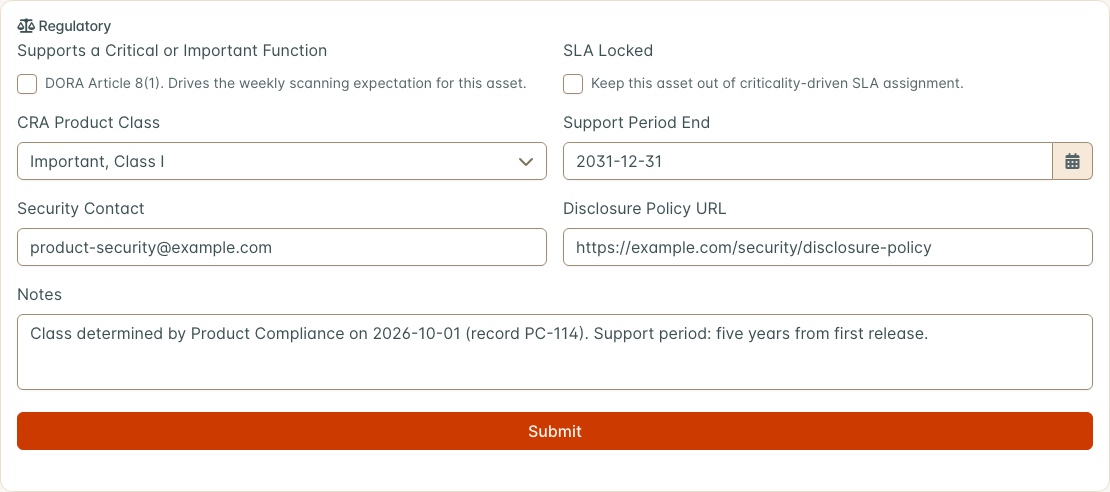
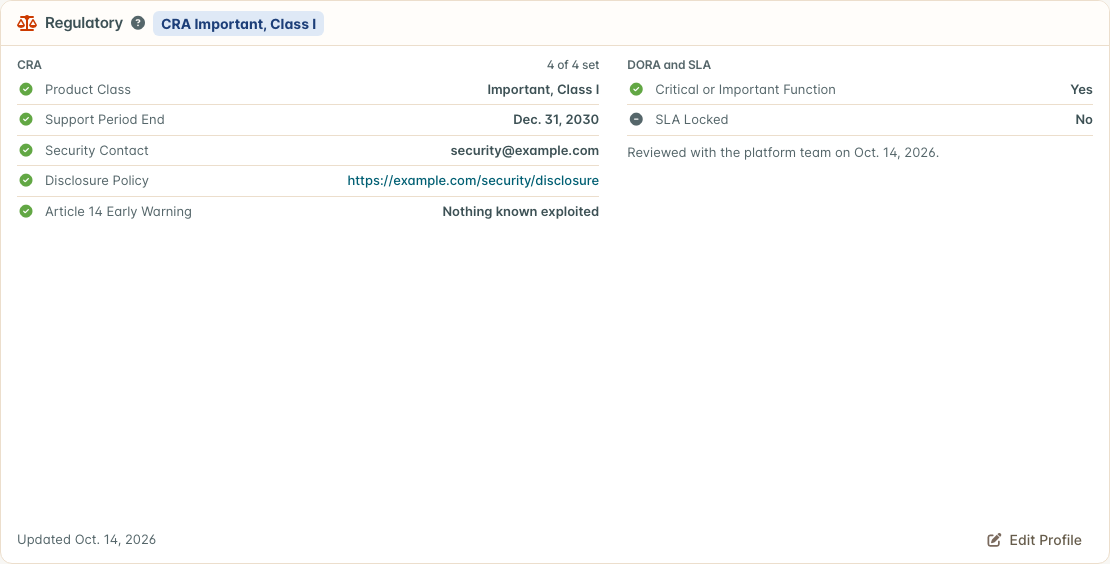
docs(regulatory): edit the Regulatory Profile in a dialog
The Asset page's Regulatory card is now a read-only checklist: the CRA
facts with how many are set, then DORA and SLA, and an Article 14 Early
Warning row that leads the CRA group while a known exploited finding
has no report. The profile is edited in the Edit Regulatory Profile
dialog, opened by Edit Profile (or Set Up Profile before the first
save).

Update Regulatory Profile, EU CRA Setup and CRA Article 14 Reporting to
match, and replace the two screenshots of the card.

diff --git a/docs/content/federal_compliance/eu_cra_setup.md b/docs/content/federal_compliance/eu_cra_setup.md
@@ -31,7 +31,7 @@ The examples use one product throughout: an **IoT Gateway** Asset whose release 
 | --- | --- | --- |
 | **DefectDojo Pro 3.4.201 or later** | Earlier releases do not check Article 14 deadlines on a standard licence, and do not compute VH-5, VH-6 or the RP requirements | The version in the page footer, or ask DefectDojo Support |
 | A superuser account | Feature flags, SLA configurations and dashboards are instance settings | **Settings > Feature Flags** is in your left menu |
-| Edit permission on each product's Asset | The Regulatory card, SBOM imports, Article 14 reports and assessments are per Asset | The **Regulatory** card on the Asset shows an active **Submit** button |
+| Edit permission on each product's Asset | The Regulatory card, SBOM imports, Article 14 reports and assessments are per Asset | The **Regulatory** card on the Asset shows **Edit Profile** (or **Set Up Profile**) |
 | Each product as an Asset | Everything in this guide is recorded per Asset | **Explore > Assets** in the left menu |
 | Background task processing (self-hosted only) | SBOM import, enrichment, deadline checks and evidence packs run as background tasks | Ask your administrator to confirm the workers are running |
 
@@ -180,8 +180,9 @@ Repeat Steps 6 to 9 for each product. For many products, use the API (see the en
 
 In the left menu, go to **Explore > Assets** and select the product's Asset. The **Regulatory**
 card is on the Asset page below the Details row, after the Open Finding Severity meter, the Asset
-Overview tabs and the Organization Memberships and Asset Identity cards. Fill it in and select
-**Submit**:
+Overview tabs and the Organization Memberships and Asset Identity cards. Select **Set Up Profile**
+(or **Edit Profile** once the profile exists), fill in the **Edit Regulatory Profile** dialog, and
+select **Submit**:
 
 | Field | Example | What it records |
 | --- | --- | --- |
@@ -195,14 +196,14 @@ Overview tabs and the Organization Memberships and Asset Identity cards. Fill it
 The empty **Security Contact** and **Disclosure Policy URL** boxes show grey example text. It is a
 hint, not a value: type your own.
 
-![The Regulatory card, filled in](images/41-cra-regulatory-card.png)
+![The Regulatory card after the profile is saved: the CRA facts, four of four set, and DORA and SLA](images/41-cra-regulatory-card.png)
 
 **Supports a Critical or Important Function** is a DORA field; leave it unless DORA applies to you.
 Every field is described on [Regulatory Profile](../regulatory_profile/#fields).
 
 | Expected | Where |
 | --- | --- |
-| The values are still there after you reload the page | The **Regulatory** card |
+| The values are still there after you reload the page, and the CRA group reads **4 of 4 set** | The **Regulatory** card |
 
 ### Step 7 — Add the CRA regulation
 
@@ -336,15 +337,17 @@ ENISA's Single Reporting Platform.
 ### Step 12 — Start and track an Article 14 report
 
 **When DefectDojo prompts you.** When an Asset whose **CRA Product Class** is not **Not
-Applicable** has an open finding marked **Known Exploited**, the Regulatory card shows **CRA Article
-14 Early Warning Check**, listing each such finding with a **Start CRA Report** button. The finding
-itself shows a **CRA Early Warning Check** tag beside its title until a report names its CVE.
+Applicable** has an open finding marked **Known Exploited**, the Regulatory card is tagged **Early
+Warning Check** and its CRA group opens with an **Article 14 Early Warning** row saying how many
+findings are still to report. Each such finding is listed under it with a **Start CRA Report**
+button, or a link to the report once one names it. The finding itself shows a **CRA Early Warning
+Check** tag beside its title until a report names its CVE.
 
 ![The early-warning prompt on an in-scope Asset: one finding already has a report, the other offers Start CRA Report](images/45-cra-early-warning-due.png)
 
-The prompt appears for any finding on the CISA KEV list, so it says a known exploited
-vulnerability affects the product, and that the early warning is due only if it is actively
-exploited in this product. It is a prompt to decide whether you are aware of active exploitation
+The prompt appears for any finding on the CISA KEV list, so the warning mark on the row explains
+that a known exploited vulnerability affects the product, and that the early warning is due only if
+it is actively exploited in this product. It is a prompt to decide whether you are aware of active exploitation
 affecting this product, not a determination. DefectDojo records when the prompt first appeared, because a regulator may ask.
 
 **Start a report only for a real awareness event.** A report cannot be deleted, its clocks cannot

diff --git a/docs/content/federal_compliance/regulatory_profile.md b/docs/content/federal_compliance/regulatory_profile.md
@@ -29,16 +29,26 @@ fields, while PCI DSS scope confirmation and the scope inventory export stay clo
 
 ## Where to edit it
 
-With the flag on, the Asset page shows a **Regulatory** card. Fill in the fields and select
-**Submit**. An Asset has at most one profile. It does not exist until the first save, and
-until then every field reads as its default.
+With the flag on, the Asset page shows a **Regulatory** card. It reads as a checklist: the CRA
+facts with how many of them are set, then **DORA and SLA**. A CRA fact the profile lacks shows
+**Not set**, marked in amber while the **CRA Product Class** is anything other than **Not
+Applicable**.
 
-You need permission to edit the Asset to change its profile. A user who can only view the
-Asset sees the card read-only.
+To change the profile, select **Edit Profile** at the foot of the card, fill in the fields in the
+**Edit Regulatory Profile** dialog, and select **Submit**. Closing the dialog without **Submit**
+changes nothing. An Asset has at most one profile. It does not exist until the first save: until
+then the card says so and offers **Set Up Profile** instead, which opens the same dialog.
+
+The tag beside the card's title sums the profile up: **Early Warning Check** while a known
+exploited finding has no report, **Reports Started** once each one has a report, **Not Set Up**
+before the first save, and otherwise the CRA product class.
+
+You need permission to edit the Asset to change its profile or start a report. A user who can only
+view the Asset sees the card without **Edit Profile** or **Start CRA Report**.
 
 ## Fields
 
-| Field on the card | API field | Values | What it records |
+| Field in the dialog | API field | Values | What it records |
 |---|---|---|---|
 | **Supports a Critical or Important Function** | `supports_critical_or_important_function` | `true` or `false`, default `false` | Whether the Asset supports a critical or important function, per DORA Article 8(1). Scan cadence policies read it to apply a weekly scanning expectation. |
 | **CRA Product Class** | `cra_product_class` | See the table below, default `not_applicable` | The product's class under the CRA (Article 7, Annexes III and IV), which sets its conformity assessment route. |

diff --git a/docs/content/federal_compliance/cra_article14_reporting.md b/docs/content/federal_compliance/cra_article14_reporting.md
@@ -19,7 +19,7 @@ An Asset is in scope for the Cyber Resilience Act when its [regulatory profile](
 
 Every way to start a report opens the same short form.
 
-**From an Asset.** When an in-scope Asset has an open finding marked as known exploited, the **Regulatory** section of the Asset page shows a **CRA Article 14 Early Warning Check** message listing those findings. Each one has a **Start CRA Report** button that fills in the Asset and the finding's vulnerability ID. Once a report names that ID, a link to the report takes the button's place.
+**From an Asset.** When an in-scope Asset has an open finding marked as known exploited, the **Regulatory** card on the Asset page is tagged **Early Warning Check**, and an **Article 14 Early Warning** row at the top of its CRA group lists those findings. Each one has a **Start CRA Report** button that fills in the Asset and the finding's vulnerability ID. Once a report names that ID, a link to the report takes the button's place, and once every listed finding has one the tag reads **Reports Started**.
 
 **From a finding.** The same finding shows a **CRA Early Warning Check** tag next to its title, or a link to its report once one exists. For anyone who can edit the Asset, the finding's menu has a **Start CRA Report** action that fills in the Asset and the finding's primary vulnerability ID, whether or not the finding is known exploited.
 
